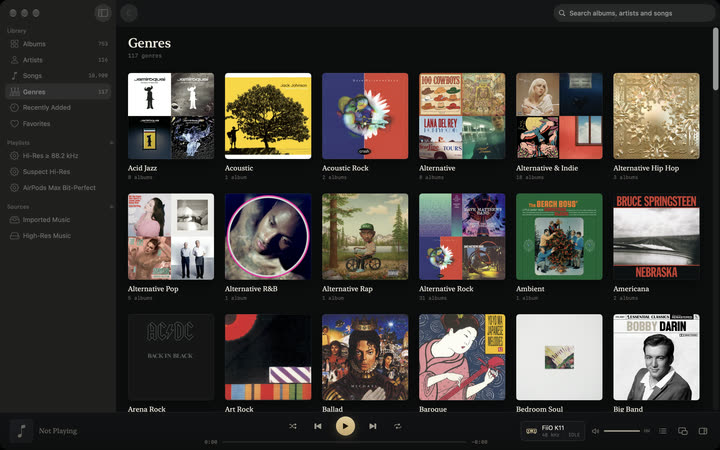
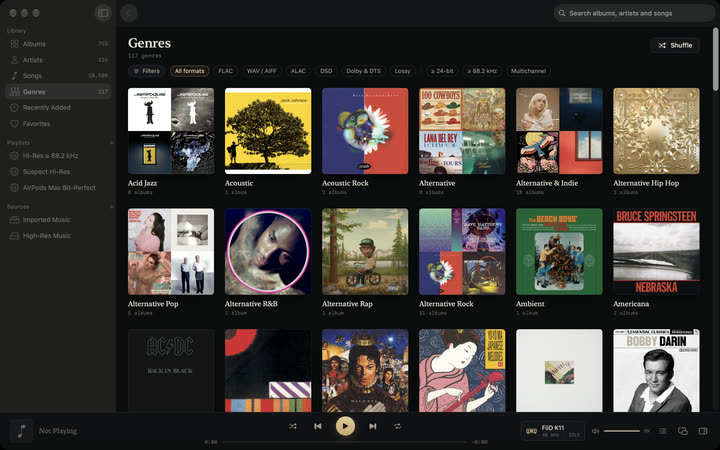
README, website, tour and key art for the filters of 0.6.4
- README: every page filters by format; "Browse like Apple Music" now covers
  the combinable chips, the Filters panel, artists and genres that follow the
  filter, filters kept per page, and Shuffle for any page. The library and
  fake-hi-res bullets and the QA-hook line match.
- Website: the library bullet mentions the filters and Shuffle; the press
  kit's static version reads 0.6.4; genres.jpg, the fake-hi-res detail and
  the four press thumbnails are rebuilt from the retaken screenshots (same
  JPEG quality as before). The fake-hi-res detail is now cut from the 2880 px
  capture (crop 1600×1354 at 1280,177, scaled to 1300×1100) so it starts at
  the Album column instead of halfway through album names.
- tour.gif re-rendered (800×500, 10 fps, 261 frames as before) with the new
  Albums and fake-hi-res shots.
- Key art: fake-hi-res re-rendered from its new screenshot; the other four
  features came out byte-identical.
- Trailer stage: the library grid's rows are 2 pt lower under the new filter
  bar (re-measured in the new Albums recording).

diff --git a/site/press.html b/site/press.html
@@ -44,7 +44,7 @@
         <tr><th>Developer</th><td>Alexander Szeremeta, independent</td></tr>
         <tr><th>Price</th><td>Free. Open source under the GPL-3.0; no account, subscription, ads or telemetry</td></tr>
         <tr><th>Platform</th><td>macOS 26 Tahoe or later, Apple silicon and Intel</td></tr>
-        <tr><th>Current version</th><td><span class="js-version-plain">0.6.3</span> · signed and notarized DMG, updates itself</td></tr>
+        <tr><th>Current version</th><td><span class="js-version-plain">0.6.4</span> · signed and notarized DMG, updates itself</td></tr>
         <tr><th>Install</th><td><a href="https://github.com/szeremeta1/Vespertine/releases/latest">Download the DMG</a> or <span class="mono">brew install --cask szeremeta1/tap/vespertine</span></td></tr>
         <tr><th>Links</th><td><a href="./">Website</a> · <a href="https://github.com/szeremeta1/Vespertine">Source code</a> · <a href="https://github.com/szeremeta1/Vespertine/blob/main/docs/VERIFICATION.md">How to verify bit-perfect playback</a></td></tr>
         <tr><th>Tested with</th><td>FiiO K11 (every rate to 384 kHz, DoP, integer mode), AirPods Max over USB-C and Bluetooth, MacBook Pro speakers</td></tr>

diff --git a/site/index.html b/site/index.html
@@ -200,7 +200,7 @@
           <div class="eyebrow">Library</div>
           <h3>Browse like Apple Music. Manage like a librarian.</h3>
           <ul>
-            <li><b>Albums, artists, songs and genres</b> with format, genre and decade filters.</li>
+            <li><b>Albums, artists, songs and genres</b>, each with filters you can combine (format, 24-bit, 88.2 kHz and up, multichannel, genre, year, sample rate, channels, analysis) and <b>Shuffle</b> for any of them.</li>
             <li><b>Search</b> across everything, ignoring case and accents.</li>
             <li><b>Smart playlists</b> in the units you think in: 24-bit, 88.2 kHz.</li>
             <li><b>Favorites</b>: a heart on any song and a Favorites page, kept in the library and never written to your files.</li>

diff --git a/scripts/brand/stage/Sources/TrailerStage/Scenes.swift b/scripts/brand/stage/Sources/TrailerStage/Scenes.swift
@@ -502,7 +502,7 @@ struct LibraryScene: View {
     let frame: CGImage?
 
     static let columns: [CGFloat] = [256, 450, 644, 838, 1032, 1227]
-    static let rows: [CGFloat] = [174, 436]
+    static let rows: [CGFloat] = [176, 438]   // 0.6.4: the filter bar sits 2 pt lower
     static let card = CGSize(width: 172, height: 236)   // cover, title, artist and format
 
     var body: some View {

diff --git a/README.md b/README.md
@@ -66,7 +66,7 @@ DSD64, DSD128, DSD256 and DSD512, in DSF or DSDIFF. On a DAC that takes DoP, the
 ![Oasis's (What's the Story) Morning Glory? from its SACD as DSD64 over DoP to a FiiO K11, with a DSD 64 badge](docs/screenshots/dsd-native-dop.png)
 
 ### Surround, Dolby and DTS, wherever you listen
-5.1 and 7.1 in FLAC, DSD, Dolby TrueHD, DTS-HD Master Audio and even DTS CDs (which players that don't recognize them turn into full-scale noise) play as head-tracked Spatial Audio on AirPods, channel for channel on a multichannel interface or receiver, or folded down on a stereo DAC. **Dolby Atmos** in Dolby Digital Plus is rendered by macOS's own Atmos renderer, just as in Apple Music. The Albums page filters by format (FLAC, WAV/AIFF, ALAC, DSD, **Dolby & DTS**, lossy, 24-bit, 88.2 kHz and up, multichannel), so every surround album is one click away.
+5.1 and 7.1 in FLAC, DSD, Dolby TrueHD, DTS-HD Master Audio and even DTS CDs (which players that don't recognize them turn into full-scale noise) play as head-tracked Spatial Audio on AirPods, channel for channel on a multichannel interface or receiver, or folded down on a stereo DAC. **Dolby Atmos** in Dolby Digital Plus is rendered by macOS's own Atmos renderer, just as in Apple Music. Every page filters by format (FLAC, WAV/AIFF, ALAC, DSD, **Dolby & DTS**, lossy, 24-bit, 88.2 kHz and up, multichannel), so every surround album is one click away.
 
 ![The Albums page filtered to multichannel: SACD rips, DTS CDs and 5.1 FLAC](docs/screenshots/multichannel-albums.png)
 
@@ -82,8 +82,8 @@ Upsampled, padded, lossy-origin and "AI-enhanced" files are flagged, with the ev
 
 <sub>The file in this screenshot is an unofficial “enhanced” 24/48 copy from the developer's own collection, not an official release. To see a verdict on files you can regenerate, [make a fake of your own](docs/ANALYSIS.md#reproducing).</sub>
 
-### Browse like Apple Music
-Albums, artists, songs and **genres**, with Genre, Decade and format filters. Messy tags are handled: "Hip-Hop" and "hip hop" are one genre, multi-genre tags count under each, and localized genre names are merged.
+### Browse like Apple Music, filter like an audiophile
+Albums, artists, songs and **genres**, with the same filters on every page: the format chips combine ("FLAC, 24-bit, 88.2 kHz and up"), and the Filters panel adds genre, year, artist, exact sample rate, bit depth, channels, analysis verdict and source, each with how many albums or songs it leaves. Artists and genres follow the filter, each page remembers its own, and every page plays or **shuffles** what it shows: a genre, an artist, the 1970s, your 5.1 albums. Messy tags are handled: "Hip-Hop" and "hip hop" are one genre, multi-genre tags count under each, and localized genre names are merged.
 
 ![The Genres page: a tile per genre with a mosaic of its covers](docs/screenshots/genres.png)
 
@@ -139,12 +139,12 @@ The decoders have automated tests with generated fixtures: TrueHD output is comp
 - **Volume.** Vespertine uses the DAC's hardware volume when it has one. Optionally, a 64-bit dithered digital volume can be enabled; it's clearly marked as not bit-perfect.
 - **Damaged files can't take it down.** Errors thrown inside codec libraries are caught; a broken file just won't play, with a message saying why.
 - **Find Music on This Mac.** Spotlight searches every drive. Each file's true format is checked, and hi-res, lossless or all music can be picked by folder or by file. Recordings, prompts, clips and duplicate copies are left out.
-- **Library.** Folders are referenced in place and watched for changes, or you can *Import & Organize* to copy music into `~/Music/Vespertine`. On the same drive the copies are APFS clones and take no extra space. It keeps albums, artists, songs and genres, with Genre, Decade and format filters (albums are dated by their original release, not the reissue you have); search across artists, albums (title, artist, genre, year) and songs (accent-insensitive); playlists; and smart playlists whose rules use the same units as the rest of the app. Covers come from the files, from the album folder (including one above a "CD 1" folder), and are picked up when you add one later. Files on unplugged drives stay in the library and show as offline; files you delete disappear from every list on the next scan (and come back if you restore them). Files that are moved or renamed, for example by Lidarr reorganizing a share, are recognized as the same songs, so playlists, play counts and analysis stay with them.
+- **Library.** Folders are referenced in place and watched for changes, or you can *Import & Organize* to copy music into `~/Music/Vespertine`. On the same drive the copies are APFS clones and take no extra space. It keeps albums, artists, songs and genres, each page with its own filters (format, sample rate, bit depth, channels, genre, decade, artist, analysis verdict, source, favorites) and Play and Shuffle (albums are dated by their original release, not the reissue you have); search across artists, albums (title, artist, genre, year) and songs (accent-insensitive); playlists; and smart playlists whose rules use the same units as the rest of the app. Covers come from the files, from the album folder (including one above a "CD 1" folder), and are picked up when you add one later. Files on unplugged drives stay in the library and show as offline; files you delete disappear from every list on the next scan (and come back if you restore them). Files that are moved or renamed, for example by Lidarr reorganizing a share, are recognized as the same songs, so playlists, play counts and analysis stay with them.
 - **Rich metadata editing** for single tracks or batches, written into the files via TagLib (Vorbis comments, ID3v2, MP4, APE). It covers artwork, sort fields, lyrics and custom tags. Each file is cloned to a backup (instant on APFS) and the previous tags are kept for one-step revert. Files Vespertine can't write (a read-only share, one file of a CUE image) keep their edits in the library instead, through rescans.
 - **Enrich Metadata.** Missing titles, artists, albums, years, track numbers and cover art are filled in from structured file names and **MusicBrainz / Cover Art Archive**. Each proposal shows its source and confidence before anything is written.
 - **MusicBrainz and Cover Art Archive** lookup and correction, and **ListenBrainz** scrobbling (optional; the token is kept in the Keychain).
 - **Network shares.** Connect to SMB, NFS or WebDAV shares on your network or over Tailscale/VPN (⌘K). Read-only by default and mounted where macOS keeps network volumes (hidden from the Finder sidebar). They heal themselves: Vespertine reconnects after sleep, network changes and server restarts, and remounts a share that has stopped answering. Shares are rescanned every half hour (never while you're playing from them), so music added to or deleted from the server shows up by itself. Indexing is quick over slow links, and playback is built for slow or busy servers. It keeps up to half a minute of audio in hand, copies the playing track to the Mac straight away, and moves playback to that copy mid-song, sample for sample, the moment it's complete, so the rest of the song no longer depends on the network. What you play is cached, with **Keep Offline** for whole albums. Passwords live in the login keychain alongside Finder's.
-- **Fake hi-res detection.** Finds a file's true bit depth (16-bit padded into 24-bit), upsampled "hi-res", lossy-origin files, and "enhanced" files whose high frequencies were synthesized (SBR or AI upscaling). It's a heuristic: every verdict shows its evidence, and some high-bitrate lossy files can pass as genuine ([limits](docs/ANALYSIS.md#limits)). Results are saved, can run automatically on import, and filter the Songs view. A *Suspect Hi-Res* smart playlist collects them. For music on a NAS or server, `vespertine-analyze` runs the same analysis next to the files and Vespertine imports the results, so nothing is read over the network. [How it works](docs/ANALYSIS.md).
+- **Fake hi-res detection.** Finds a file's true bit depth (16-bit padded into 24-bit), upsampled "hi-res", lossy-origin files, and "enhanced" files whose high frequencies were synthesized (SBR or AI upscaling). It's a heuristic: every verdict shows its evidence, and some high-bitrate lossy files can pass as genuine ([limits](docs/ANALYSIS.md#limits)). Results are saved, can run automatically on import, and can filter any page. A *Suspect Hi-Res* smart playlist collects them. For music on a NAS or server, `vespertine-analyze` runs the same analysis next to the files and Vespertine imports the results, so nothing is read over the network. [How it works](docs/ANALYSIS.md).
 - **Live spectrum** of exactly what the DAC receives (DSD over DoP included), plus a mini player, a menu-bar extra and full Now Playing / media-key integration.
 
 ## Build
@@ -223,7 +223,7 @@ cd Packages/VespertineKit && swift build -c release --product vespertine-probe
 
 `gapless <device> <files…>` plays a queue and reports hand-offs and underruns. `analyze <files…>` runs the analysis (`analyze-json` prints it as JSON, for comparing with `vespertine-analyze file`); `forensics <files…>` prints its raw measurements as a table; `restore-test <device>` checks the quit options that hand a device back.
 
-`scripts/qa-run.sh` and `App/Sources/App/DeveloperHooks.swift` hold the launch arguments used for visual QA. They can open albums, start playback, pick a format filter, select inspector tabs and render windows to PNG, which works even while the screen is locked.
+`scripts/qa-run.sh` and `App/Sources/App/DeveloperHooks.swift` hold the launch arguments used for visual QA. They can open albums, artists and genres, start playback or a shuffle, set any page's filters, select inspector tabs and render windows to PNG, which works even while the screen is locked.
 
 ## Releasing
 
